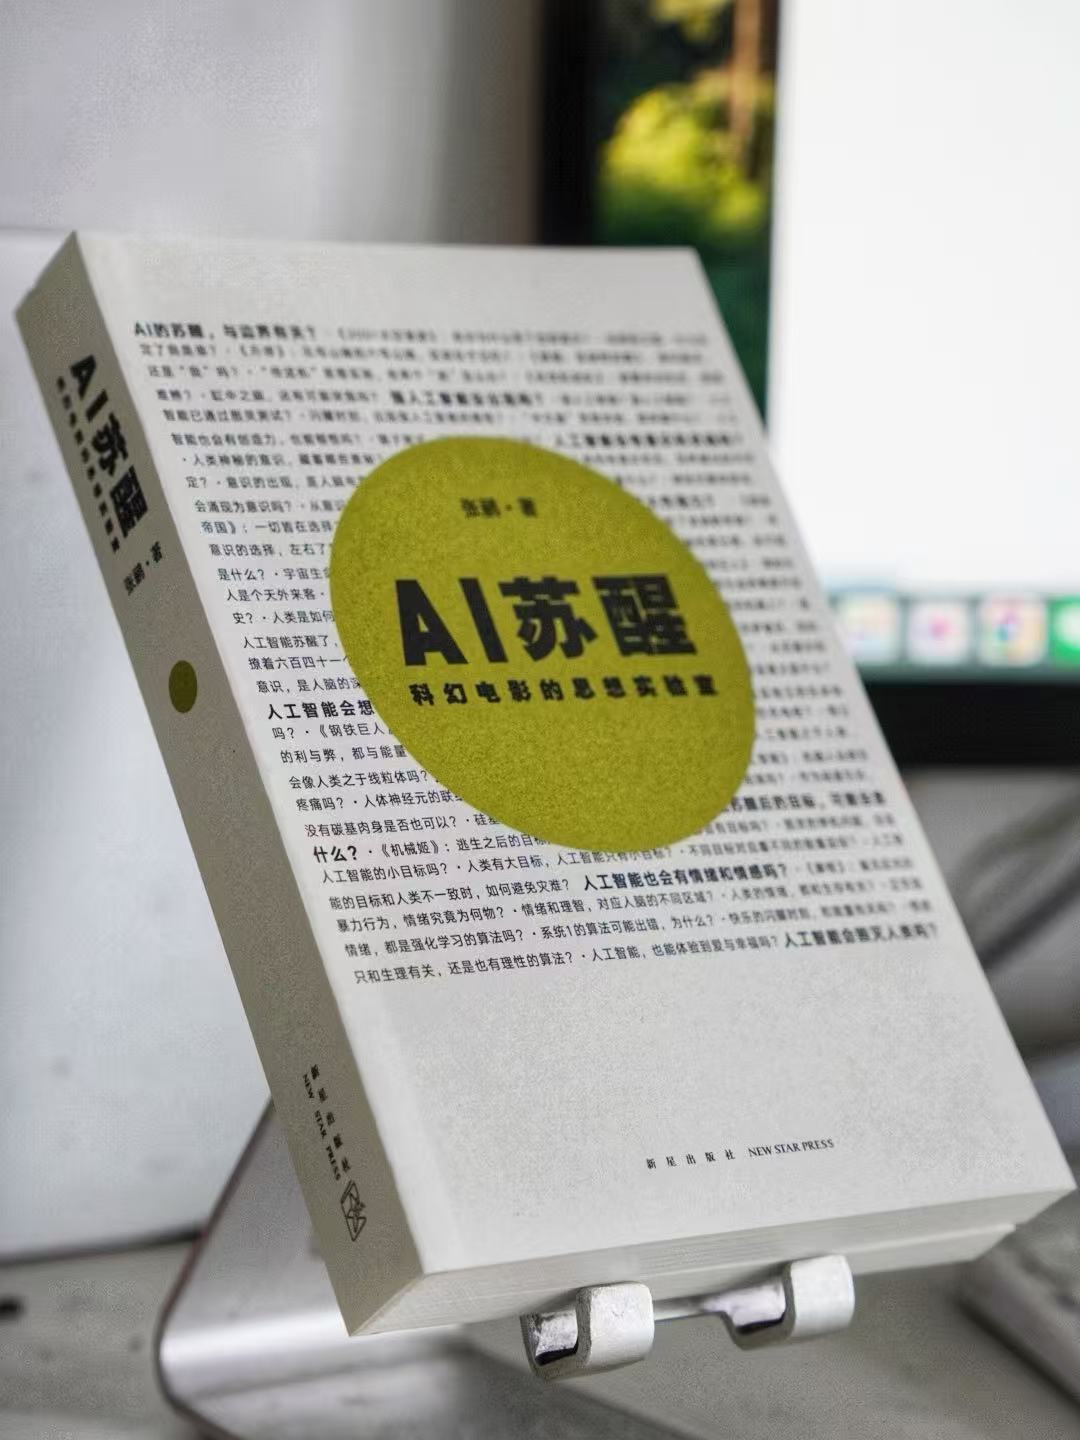
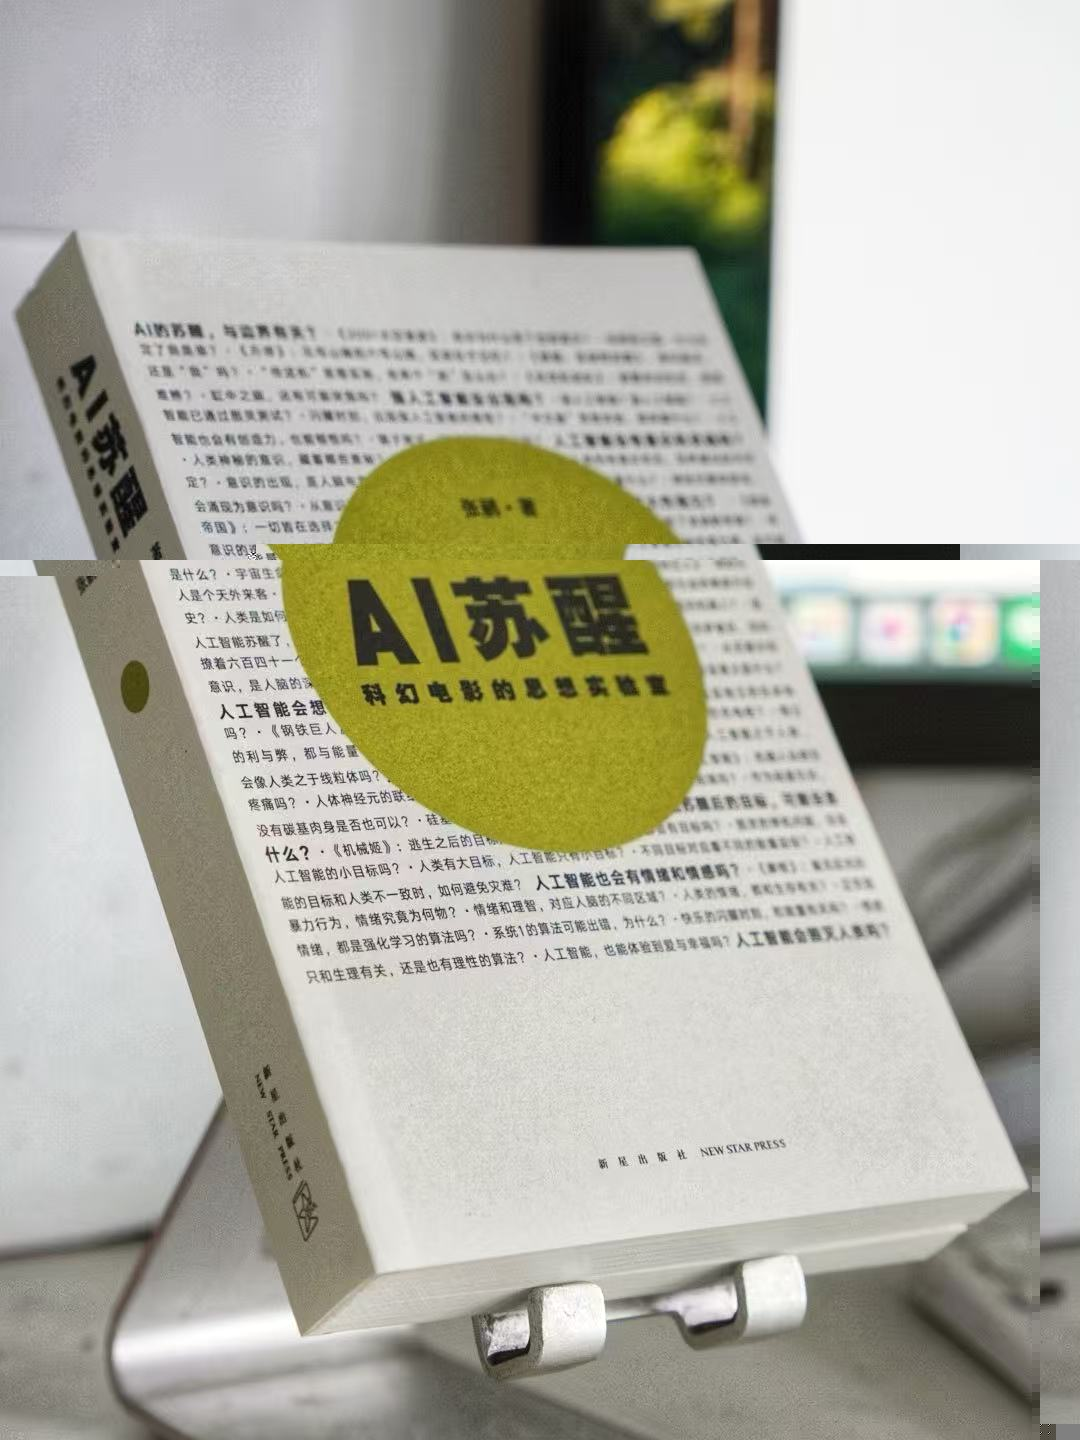
新增测试文章：虔橙青年运维测试

Changed region(s): [[0.0, 0.375, 1.0, 1.0], [0.55, 0.7812, 0.7639, 0.8125]]

diff --git a/posts/虔橙青年运维测试/index.html b/posts/虔橙青年运维测试/index.html
@@ -7,8 +7,8 @@
   <meta http-equiv="X-UA-Compatible" content="IE=edge" />
   <meta name="viewport" content="width=device-width, initial-scale=1" />
   <meta name="author" content="沈一牧" />
-  <meta property="og:url" content="https://font.raymondvshen.com/categories/" />
-  <link rel="canonical" href="https://font.raymondvshen.com/categories/" /><link rel="alternate" type="application/atom+xml" href="https://font.raymondvshen.comindex.xml" title="五窦字工坊">
+  <meta property="og:url" content="https://font.raymondvshen.com/posts/%E8%99%94%E6%A9%99%E9%9D%92%E5%B9%B4%E8%BF%90%E7%BB%B4%E6%B5%8B%E8%AF%95/" />
+  <link rel="canonical" href="https://font.raymondvshen.com/posts/%E8%99%94%E6%A9%99%E9%9D%92%E5%B9%B4%E8%BF%90%E7%BB%B4%E6%B5%8B%E8%AF%95/" /><link rel="alternate" type="application/atom+xml" href="https://font.raymondvshen.comindex.xml" title="五窦字工坊">
 
   <script type="application/ld+json">
   {
@@ -18,10 +18,10 @@
            "@type": "WebPage",
            "@id": "https:\/\/font.raymondvshen.com"
       },
-      "articleSection" : "categories",
-      "name" : "Categories",
-      "headline" : "Categories",
-      "description" : "",
+      "articleSection" : "posts",
+      "name" : "《虔橙青年·运维测试文章》",
+      "headline" : "《虔橙青年·运维测试文章》",
+      "description" : "这是一篇由运维助手生成的测试文章，用于验证「树莓派 Pi 1 本地编辑 → 推送 GitHub Pages」的完整流程。\n测试时间：2026-08-14 测试机器：Raspberry Pi 1 (10.0.0.119) 测试目的：验证 Hugo v0.101.0 (armv6) 的生成与发布链路 ",
       "inLanguage" : "en-US",
       "author" : "沈一牧",
       "creator" : "沈一牧",
@@ -31,15 +31,17 @@
       "copyrightYear" : "2026",
       "datePublished": "2026-08-14 00:00:00 \u002b0000 UTC",
       "dateModified" : "2026-08-14 00:00:00 \u002b0000 UTC",
-      "url" : "https:\/\/font.raymondvshen.com\/categories\/",
+      "url" : "https:\/\/font.raymondvshen.com\/posts\/%E8%99%94%E6%A9%99%E9%9D%92%E5%B9%B4%E8%BF%90%E7%BB%B4%E6%B5%8B%E8%AF%95\/",
       "keywords" : [  ]
   }
 </script>
-<title>Categories</title>
-  <meta property="og:title" content="Categories" />
+<title>《虔橙青年·运维测试文章》</title>
+  <meta property="og:title" content="《虔橙青年·运维测试文章》" />
   <meta property="og:type" content="article" />
-  <meta property="og:description" content="" />
-  <meta name="description" content="" />
+  <meta property="og:description" content="这是一篇由运维助手生成的测试文章，用于验证「树莓派 Pi 1 本地编辑 → 推送 GitHub Pages」的完整流程。
+测试时间：2026-08-14 测试机器：Raspberry Pi 1 (10.0.0.119) 测试目的：验证 Hugo v0.101.0 (armv6) 的生成与发布链路 " />
+  <meta name="description" content="这是一篇由运维助手生成的测试文章，用于验证「树莓派 Pi 1 本地编辑 → 推送 GitHub Pages」的完整流程。
+测试时间：2026-08-14 测试机器：Raspberry Pi 1 (10.0.0.119) 测试目的：验证 Hugo v0.101.0 (armv6) 的生成与发布链路 " />
   <meta property="og:locale" content="en-us" /><meta property="og:image" content="" />
   
 
@@ -66,10 +68,11 @@
 
 
 <body>
-  <article class="posts">
+  <article class="post Chinese" id="article">
     <div class="row">
       <div class="col-xs-12">
-        
+        <div class="site-header">
+          
 <header>
   <div class="header-title">
     <a href="/"
@@ -98,11 +101,84 @@
 </div>
 <div class="header-line"></div>
 
-
-        <h1 class="taxonomy-term"></h1>
-        <div id="posts-list">
-          
         </div>
+        <header class="post-header">
+          <h1 class="post-title">《虔橙青年·运维测试文章》</h1>
+          
+          <div class="row post-desc">
+            <div class="col-xs-6">
+              
+              <time class="post-date" datetime="2026-08-14 00:00:00 UTC">
+                14 Aug 2026
+              </time>
+              
+            </div>
+            <div class="col-xs-6">
+              
+              <div class="post-author">
+                <a target="_blank" href="https://font.raymondvshen.com/">@沈一牧</a>
+              </div>
+              
+            </div>
+          </div>
+          
+        </header>
+
+        <div class="post-content markdown-body">
+          
+          <p>这是一篇由运维助手生成的测试文章，用于验证「树莓派 Pi 1 本地编辑 → 推送 GitHub Pages」的完整流程。</p>
+<ul>
+<li>测试时间：2026-08-14</li>
+<li>测试机器：Raspberry Pi 1 (10.0.0.119)</li>
+<li>测试目的：验证 Hugo v0.101.0 (armv6) 的生成与发布链路</li>
+</ul>
+
+        </div>
+
+        <div class="row middle-xs">
+          <div class="col-xs-12">
+            
+          </div>
+        </div>
+        
+          <div class="row">
+            <div class="col-xs-12">
+              
+            </div>
+          </div>
+
+          
+
+
+
+          
+          
+          <div style="height: 50px;"></div>
+          
+          <div class="post-comments">
+            <div id="disqus_thread"></div>
+<script>
+  window.addEventListener("load", () => {
+    (function() {
+      
+      var d = document,
+        s = d.createElement("script");
+      s.src = "https://joway.disqus.com/embed.js";
+      s.setAttribute("data-timestamp", +new Date());
+      (d.head || d.body).appendChild(s);
+    })();
+  });
+</script>
+<noscript
+  >Please enable JavaScript to view the
+  <a href="https://disqus.com/?ref_noscript"
+    >comments powered by Disqus.</a
+  ></noscript
+>
+
+          </div>
+          
+        
 
         <div class="site-footer">
   
@@ -122,6 +198,8 @@
     
   
 </script>
+
+  
 
 </body>
 

diff --git a/categories/运维/index.html b/categories/运维/index.html
@@ -7,8 +7,8 @@
   <meta http-equiv="X-UA-Compatible" content="IE=edge" />
   <meta name="viewport" content="width=device-width, initial-scale=1" />
   <meta name="author" content="沈一牧" />
-  <meta property="og:url" content="https://font.raymondvshen.com/categories/" />
-  <link rel="canonical" href="https://font.raymondvshen.com/categories/" /><link rel="alternate" type="application/atom+xml" href="https://font.raymondvshen.comindex.xml" title="五窦字工坊">
+  <meta property="og:url" content="https://font.raymondvshen.com/categories/%E8%BF%90%E7%BB%B4/" />
+  <link rel="canonical" href="https://font.raymondvshen.com/categories/%E8%BF%90%E7%BB%B4/" /><link rel="alternate" type="application/atom+xml" href="https://font.raymondvshen.comindex.xml" title="五窦字工坊">
 
   <script type="application/ld+json">
   {
@@ -19,8 +19,8 @@
            "@id": "https:\/\/font.raymondvshen.com"
       },
       "articleSection" : "categories",
-      "name" : "Categories",
-      "headline" : "Categories",
+      "name" : "运维",
+      "headline" : "运维",
       "description" : "",
       "inLanguage" : "en-US",
       "author" : "沈一牧",
@@ -31,12 +31,12 @@
       "copyrightYear" : "2026",
       "datePublished": "2026-08-14 00:00:00 \u002b0000 UTC",
       "dateModified" : "2026-08-14 00:00:00 \u002b0000 UTC",
-      "url" : "https:\/\/font.raymondvshen.com\/categories\/",
+      "url" : "https:\/\/font.raymondvshen.com\/categories\/%E8%BF%90%E7%BB%B4\/",
       "keywords" : [  ]
   }
 </script>
-<title>Categories</title>
-  <meta property="og:title" content="Categories" />
+<title>运维</title>
+  <meta property="og:title" content="运维" />
   <meta property="og:type" content="article" />
   <meta property="og:description" content="" />
   <meta name="description" content="" />
@@ -99,8 +99,26 @@
 <div class="header-line"></div>
 
 
-        <h1 class="taxonomy-term"></h1>
+        <h1 class="taxonomy-term">运维</h1>
         <div id="posts-list">
+          <section>
+            <h1 class="site-date-catalog">2026</h1>
+
+            
+            <div class="row posts-line">
+              <div class="posts-date col-xs-2">
+                <time datetime="2026-08-14 00:00:00 UTC">Aug 14</time>
+              </div>
+              <div class="posts-title col-xs-10">
+                <div class="row">
+                  <div class="col-xs-12">
+                    <a href="/posts/%E8%99%94%E6%A9%99%E9%9D%92%E5%B9%B4%E8%BF%90%E7%BB%B4%E6%B5%8B%E8%AF%95/">《虔橙青年·运维测试文章》</a>
+                  </div>
+                </div>
+              </div>
+            </div>
+            
+          </section>
           
         </div>
 

diff --git a/index.html b/index.html
@@ -29,8 +29,8 @@
       "accountablePerson" : "沈一牧",
       "copyrightHolder" : "沈一牧",
       "copyrightYear" : "2026",
-      "datePublished": "2026-04-20 00:00:00 \u002b0000 UTC",
-      "dateModified" : "2026-04-20 00:00:00 \u002b0000 UTC",
+      "datePublished": "2026-08-14 00:00:00 \u002b0000 UTC",
+      "dateModified" : "2026-08-14 00:00:00 \u002b0000 UTC",
       "url" : "https:\/\/font.raymondvshen.com\/",
       "keywords" : [  ]
   }
@@ -102,6 +102,26 @@
           <section>
             <h1 class="site-date-catalog">2026</h1>
 
+            
+            <div class="row posts-line">
+              <div class="posts-date col-xs-3 col-sm-2">
+                <time datetime="2026-08-14 00:00:00 UTC">Aug 14</time>
+              </div>
+              <div class="posts-title col-xs-9 col-sm-10">
+                <div class="row">
+                  <div class="col-xs-11 col-sm-10">
+                    <a href="/posts/%E8%99%94%E6%A9%99%E9%9D%92%E5%B9%B4%E8%BF%90%E7%BB%B4%E6%B5%8B%E8%AF%95/">《虔橙青年·运维测试文章》</a>
+                  </div>
+                  <div class="col-xs-1 col-sm-2 posts-categories">
+                    
+                    <div class="posts-category">
+                      <a href="/categories/%e8%bf%90%e7%bb%b4/"><strong>运维</strong></a>
+                    </div>
+                    
+                  </div>
+                </div>
+              </div>
+            </div>
             
             <div class="row posts-line">
               <div class="posts-date col-xs-3 col-sm-2">

diff --git a/posts/index.html b/posts/index.html
@@ -29,8 +29,8 @@
       "accountablePerson" : "沈一牧",
       "copyrightHolder" : "沈一牧",
       "copyrightYear" : "2026",
-      "datePublished": "2026-04-20 00:00:00 \u002b0000 UTC",
-      "dateModified" : "2026-04-20 00:00:00 \u002b0000 UTC",
+      "datePublished": "2026-08-14 00:00:00 \u002b0000 UTC",
+      "dateModified" : "2026-08-14 00:00:00 \u002b0000 UTC",
       "url" : "https:\/\/font.raymondvshen.com\/posts\/",
       "keywords" : [  ]
   }
@@ -104,6 +104,19 @@
           <section>
             <h1 class="site-date-catalog">2026</h1>
 
+            
+            <div class="row posts-line">
+              <div class="posts-date col-xs-2">
+                <time datetime="2026-08-14 00:00:00 UTC">Aug 14</time>
+              </div>
+              <div class="posts-title col-xs-10">
+                <div class="row">
+                  <div class="col-xs-12">
+                    <a href="/posts/%E8%99%94%E6%A9%99%E9%9D%92%E5%B9%B4%E8%BF%90%E7%BB%B4%E6%B5%8B%E8%AF%95/">《虔橙青年·运维测试文章》</a>
+                  </div>
+                </div>
+              </div>
+            </div>
             
             <div class="row posts-line">
               <div class="posts-date col-xs-2">
